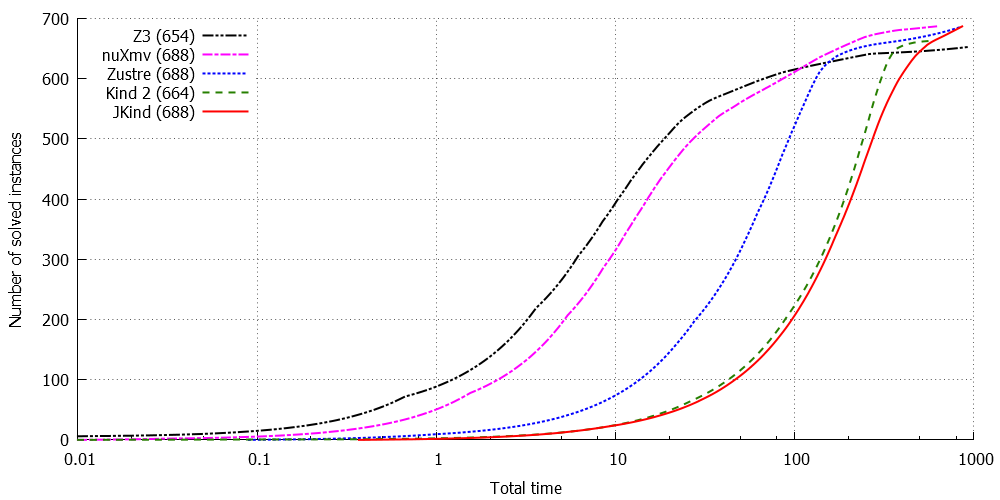
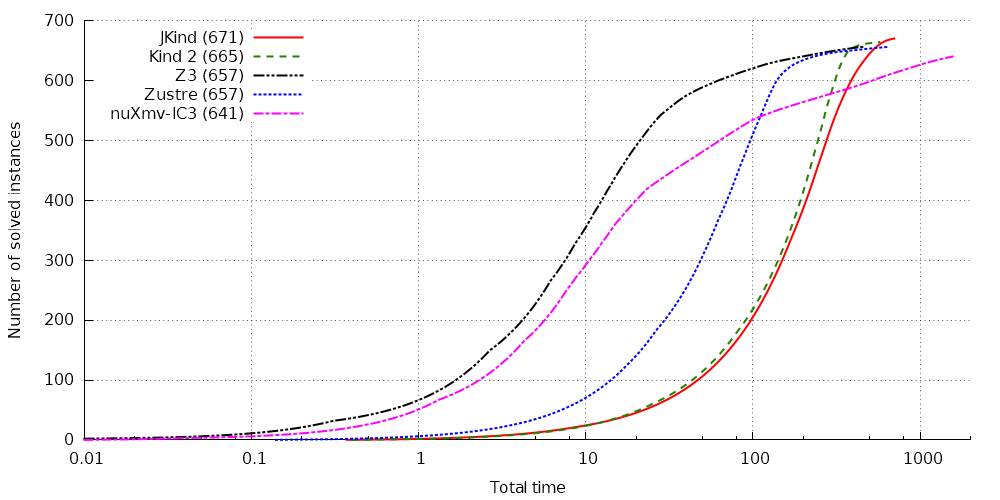
Updated performance graph

diff --git a/main.tex b/main.tex
@@ -156,9 +156,20 @@ models over the theory of linear integer arithmetic\footnote{Available
 3.50GHz, with 32Gb of RAM and a time limit of 60 seconds per model.
 
 Performance for \jkind and related solvers are shown in
-Figure~\ref{fig:benchmark}. The key describes the number of benchmarks solved for each tool, and the graph shows the aggregate time required for solving, ordered by time required per-problem, ordered independently for each tool.  \jkind, \nuxmv, and
-\zustre were able to verify or falsify every property, with \nuxmv as
-the fastest tool.  We note that many of the benchmarks in this set are quickly evaluated: z3 solves the first 400 benchmarks in 10 seconds.  Due to \jkind's use of Java and multiple threads, the JVM/\jkind startup time for an empty model is approximately 0.35s, which leads to poor performance on small models.  For the solvers completing all benchmarks, \jkind underperforms \nuxmv (which completes all problems in 618s) and very slightly outperforms \zustre (864s vs. 867s).  As always, benchmarks should be taken with a large grain of salt.  In~\cite{champion2016cav}, a different set of benchmarks favored \kind2.  We believe that all the solvers are relatively competitive.
+Figure~\ref{fig:benchmark}. The key describes the number of benchmarks
+solved for each tool, and the graph shows the aggregate time required
+for solving, ordered by time required per-problem, ordered
+independently for each tool. \jkind was able to verify or falsify the
+most properties, although \zthree was often the fastest tool.  We note
+that many of the benchmarks in this set are quickly evaluated: \zthree
+solves the first 400 benchmarks in 10 seconds.  Due to \jkind's use of
+Java and multiple threads, the JVM/\jkind startup time for an empty
+model is approximately 0.35s, which leads to poor performance on small
+models\footnote{Without startup time, the curve for \jkind is close to
+  the curve for \zustre}.  As always, benchmarks should be taken with
+a large grain of salt.  In~\cite{champion2016cav}, a different set of
+benchmarks favored \kind2.  We believe that all the solvers are
+relatively competitive.
 
 
 \begin{figure}
